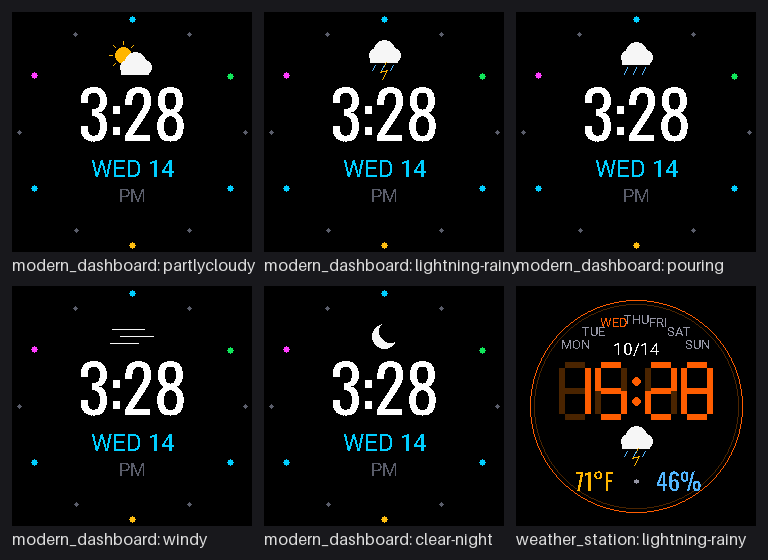
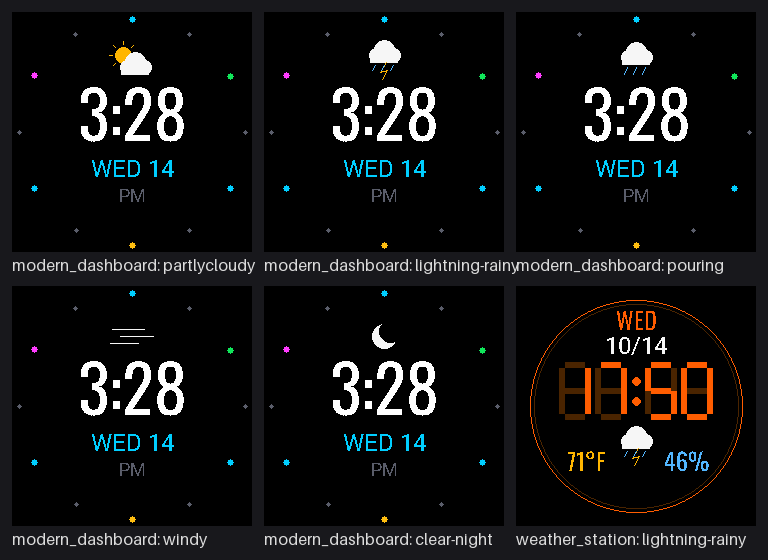
weather_station v3: single weekday, larger date, diagonal metrics
Owner flash-test feedback on the S3:
- Replace the seven-label weekday arc with one orange Oswald-24
  abbreviation centered at y=35 (ink 25..43, worst corner r 96 vs the
  r=102 hairline). Six of seven arc labels were clutter; the arc table
  and active-day loop go away.
- Calendar date grows from Roboto 17 to 24 and moves up: ink y 51..68
  versus 57..69, still 8px above the segment tops.
- Temperature/humidity move from the bottom arc (78/162, y=196) up the
  lower diagonals to (70/170, y=176), filling the open side space.
  Worst text corner drops from r=99.7 (grazing the hairline bezel) to
  r<=96, verified on rendered BMPs; the separator dot is gone.
- Retire clock_weather_weekday_font and clock_weather_date_font from
  the theme; the weather-less '?' fallback moves to clock_small_font.
  Weather faces now draw only on fonts the theme already bakes.

Pixel audit (68 checks incl. lightning-rainy and pouring builds)
passes; all committed review images regenerated from this renderer.

Docs: README/CONFIGURATION/CHANGELOG wording follows the new layout.

diff --git a/CHANGELOG.md b/CHANGELOG.md
@@ -9,11 +9,12 @@
 - Clock face lineup is now seven faces: `original`, `classic_analog`,
   `modern_dashboard`, `fitness_ring`, `clean_arc`, `minimalist`, and
   `weather_station`.
-- Added the `weather_station` face: a seven-segment time with a true weekday
-  arc, calendar date, live weather-condition icon, and temperature/humidity,
-  all on one centered vertical rhythm, driven by a single Home Assistant
-  `weather.*` entity through `clock_weather_entity`. Metrics and icon degrade
-  to placeholders while the entity is unavailable.
+- Added the `weather_station` face: a seven-segment time with dark "off
+  segment" ghosts, a centered weekday abbreviation, calendar date, live
+  weather-condition icon, and temperature/humidity placed up the lower
+  diagonals, all driven by a single Home Assistant `weather.*` entity through
+  `clock_weather_entity`. Metrics and icon degrade to placeholders while the
+  entity is unavailable.
 - Reworked `modern_dashboard` around a cleaned-up dashboard layout with a
   **live** weather-condition icon above the time; it now subscribes to
   `clock_weather_entity` like `weather_station`. The weather source package is

diff --git a/docs/CONFIGURATION.md b/docs/CONFIGURATION.md
@@ -52,7 +52,7 @@ Available values:
 - `fitness_ring` — smartwatch minute-progress ring around a large digital time with day/date and AM/PM.
 - `clean_arc` — large centered time with cyan/red side arcs, day/date, AM/PM, and a minute-progress bar.
 - `minimalist` — oversized minimal digital time and enlarged day/date, nothing else.
-- `weather_station` — seven-segment time, weekday arc/date, live weather icon, temperature, and humidity from `clock_weather_entity`.
+- `weather_station` — seven-segment time with ghosted off-segments, weekday abbreviation, larger date, live weather icon, and temperature/humidity placed up the lower diagonals, all from `clock_weather_entity`.
 
 Every face other than `modern_dashboard` and `weather_station` intentionally
 requires no weather, battery, or other Home Assistant entities. This keeps

diff --git a/README.md b/README.md
@@ -221,7 +221,7 @@ face actually looks like at 240x240.
 | `fitness_ring` | Smartwatch minute-progress ring around a large digital time with day/date and AM/PM. |
 | `clean_arc` | Large centered time with cyan/red side arcs, day/date, AM/PM, and a minute-progress bar. |
 | `minimalist` | Oversized digital time and enlarged day/date — nothing else. |
-| `weather_station` | Seven-segment time with weekday arc, date, live weather condition icon, temperature, and humidity from one Home Assistant `weather.*` entity. |
+| `weather_station` | Seven-segment time with ghosted off-segments, weekday abbreviation, date, live weather condition icon, and temperature/humidity up the lower diagonals, all from one Home Assistant `weather.*` entity. |
 
 ### Selecting a clock face
 
